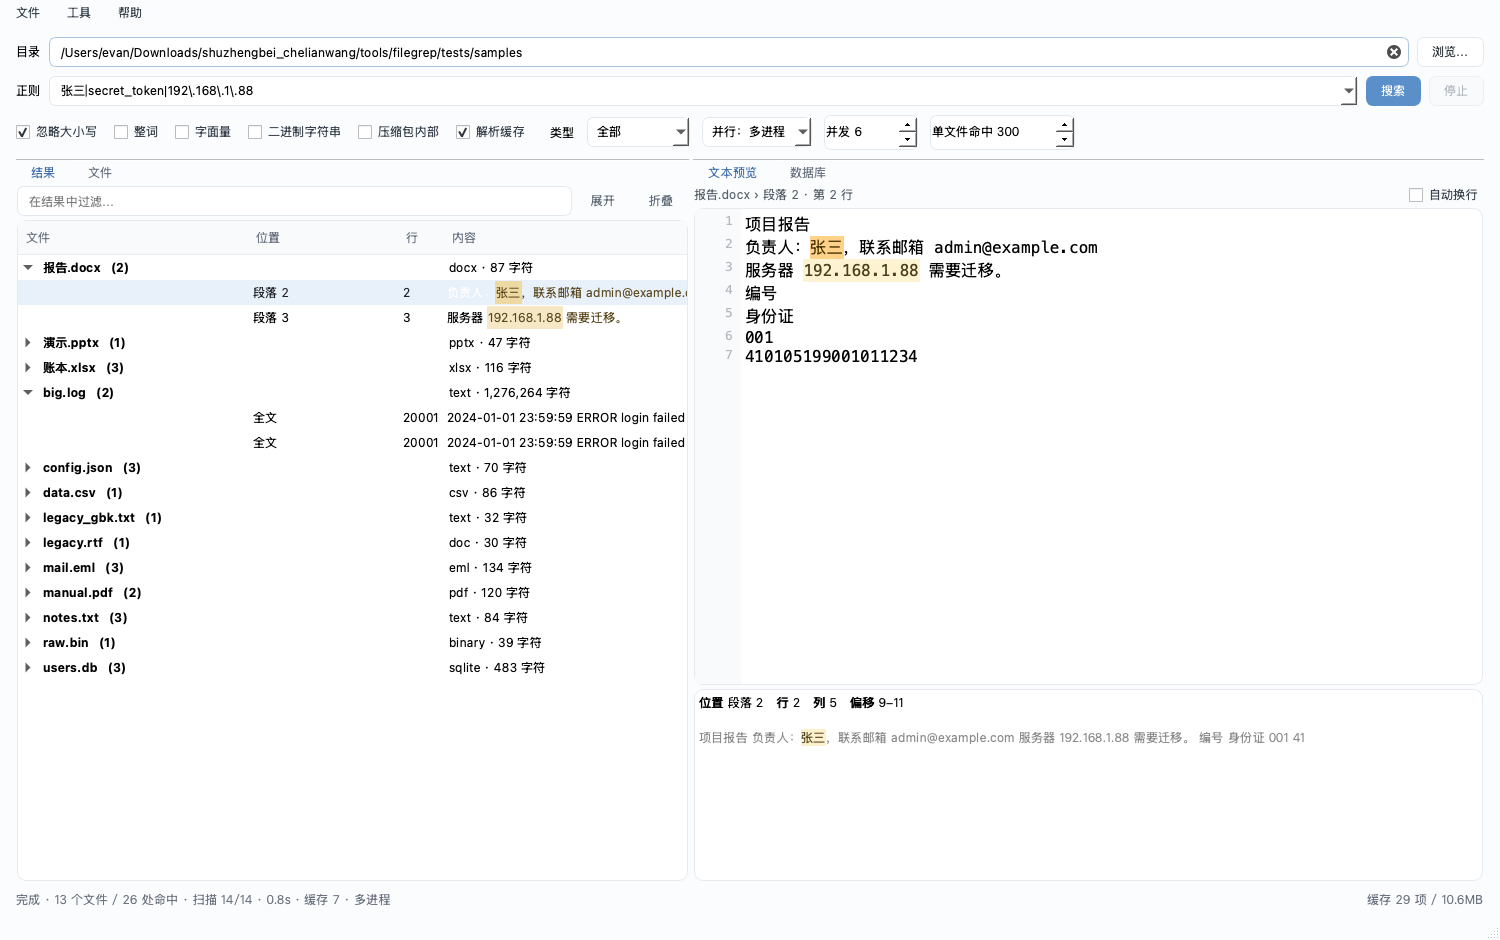
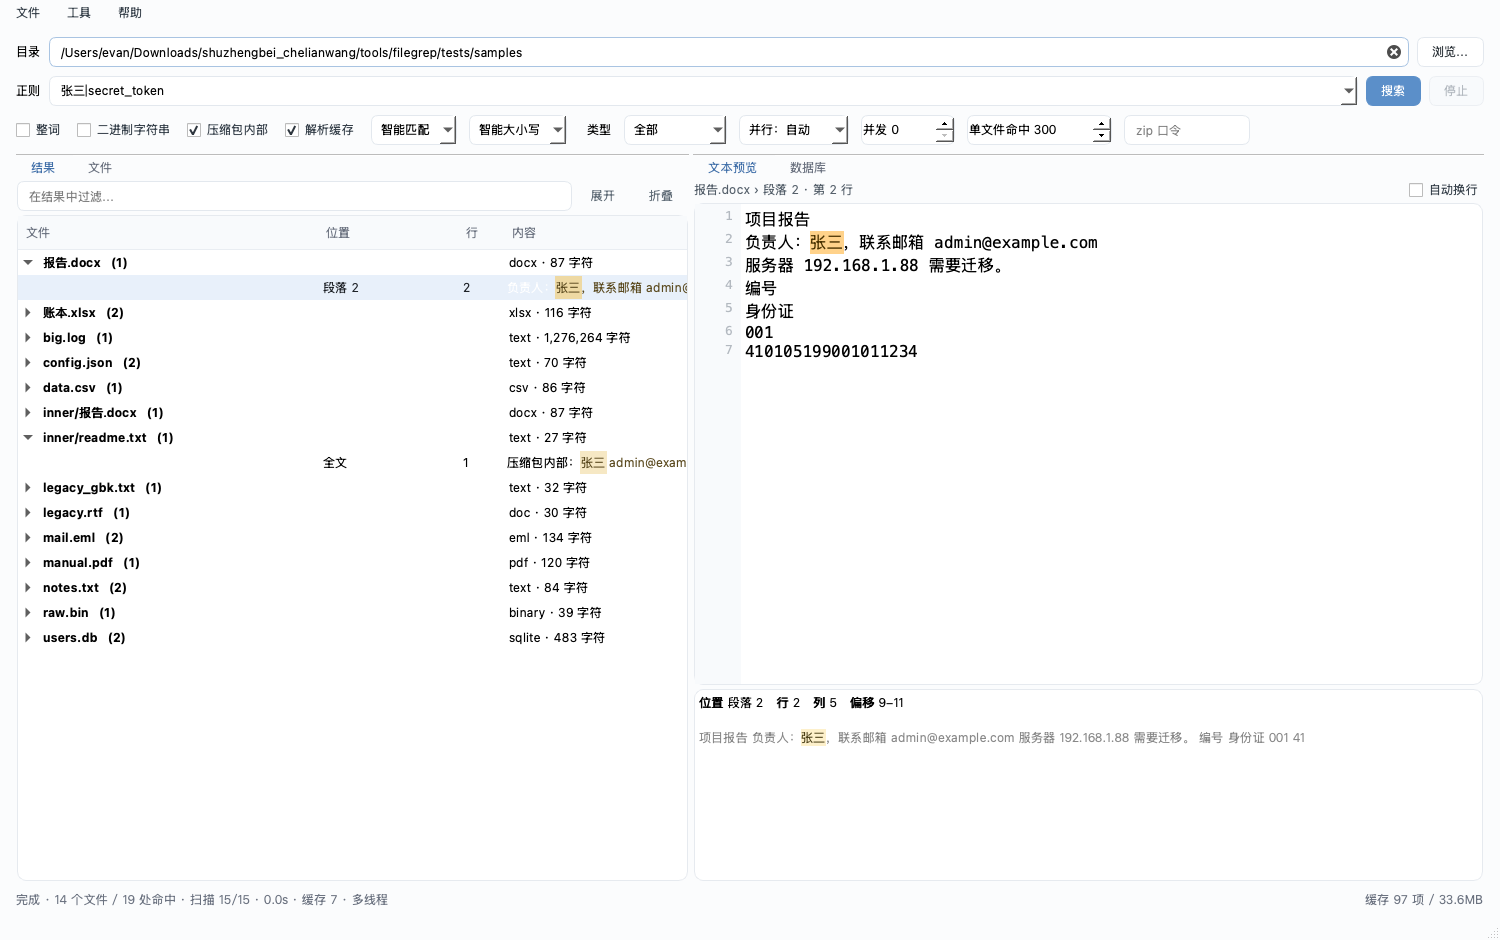
fix(extract): parse archive members and files with unusual extensions
Log bundles often use numeric or missing extensions (logs/aplog.14,
kernel_kmsg.8), which the previous allow-list rejected, so whole logs were
silently skipped.

- replace the member allow-list with a blacklist of media/font/executable/
  archive types; everything else is attempted
- unknown-suffix files get a second chance at text decoding, gated by a
  text-quality score so binary garbage is still rejected

Verified on a real 2x27MB car-log bundle: previously 88 members scanned,
now 208, and a timestamp that only appeared in aplog.14 is found (4 hits).

diff --git a/filegrep/gui_qt.py b/filegrep/gui_qt.py
@@ -41,7 +41,7 @@ from PySide6.QtWidgets import (QAbstractItemView, QApplication, QCheckBox, QComb
                                QTreeWidgetItem, QVBoxLayout, QWidget)
 
 from .engine import (DEFAULT_EXCLUDES, KIND_GROUPS, FileResult, SearchConfig,
-                     SearchEngine, SearchReport, load_document)
+                     SearchEngine, SearchReport, load_document, looks_like_regex)
 from .extract import ExtractContext, supported_suffixes
 
 APP_NAME = "FileGrep"
@@ -974,8 +974,14 @@ class MainWindow(QMainWindow):
         self.case_combo.setToolTip("智能：正则里出现大写字母就区分大小写（推荐）")
         self.cb_word = QCheckBox("整词")
         self.cb_word.setToolTip("只匹配完整单词（给表达式两端加词边界）")
-        self.cb_literal = QCheckBox("字面量")
-        self.cb_literal.setToolTip("把输入当成纯文本查找，特殊符号不再按正则解释")
+        self.match_combo = QComboBox()
+        self.match_combo.addItem("智能匹配", "smart")
+        self.match_combo.addItem("纯文字", "text")
+        self.match_combo.addItem("正则", "regex")
+        self.match_combo.setToolTip(
+            "智能匹配：输入像普通文字就直接找文字，像正则才按正则（推荐）\n"
+            "纯文字：所有符号原样查找\n"
+            "正则：始终按正则表达式")
         self.cb_deep = QCheckBox("二进制字符串")
         self.cb_deep.setToolTip("对无法解析的二进制文件（镜像、未知库）做可打印字符串扫描")
         self.cb_arch = QCheckBox("压缩包内部")
@@ -1009,8 +1015,9 @@ class MainWindow(QMainWindow):
         self.btn_retry_enc.setVisible(False)
         self.btn_retry_enc.setToolTip("用当前口令重新搜索被跳过的加密内容")
         self.btn_retry_enc.clicked.connect(self.start_search)
-        for w in (self.cb_word, self.cb_literal, self.cb_deep, self.cb_arch, self.cb_cache):
+        for w in (self.cb_word, self.cb_deep, self.cb_arch, self.cb_cache):
             row3.addWidget(w)
+        row3.addWidget(self.match_combo)
         row3.addWidget(self.case_combo)
         row3.addSpacing(8)
         row3.addWidget(QLabel("类型"))
@@ -1118,7 +1125,7 @@ class MainWindow(QMainWindow):
         root.addLayout(bottom)
         self.setCentralWidget(central)
 
-        self.cb_literal.toggled.connect(self._on_literal_toggled)
+        self.match_combo.currentIndexChanged.connect(self._on_match_mode_changed)
 
         # 快捷键
         for seq, fn in (
@@ -1189,8 +1196,8 @@ class MainWindow(QMainWindow):
         if self.pattern_combo.count():
             self.pattern_combo.setCurrentIndex(0)
         self.case_combo.setCurrentIndex(max(0, min(s.value("case_mode", 0, type=int), 2)))
+        self.match_combo.setCurrentIndex(max(0, min(s.value("match_mode", 0, type=int), 2)))
         self.cb_word.setChecked(False)
-        self.cb_literal.setChecked(False)
         self.cb_deep.setChecked(False)
         self.cb_arch.setChecked(s.value("archives", True, type=bool))
         self.cb_cache.setChecked(s.value("cache", True, type=bool))
@@ -1210,7 +1217,8 @@ class MainWindow(QMainWindow):
         hist = [self.pattern_combo.itemText(i) for i in range(self.pattern_combo.count())][:30]
         s.setValue("history", hist)
         s.setValue("case_mode", self.case_combo.currentIndex())
-        # 「整词 / 字面量 / 二进制字符串」不持久化：每次启动都从关闭开始
+        s.setValue("match_mode", self.match_combo.currentIndex())
+        # 「整词 / 二进制字符串」不持久化：每次启动都从关闭开始
         s.setValue("archives", self.cb_arch.isChecked())
         s.setValue("cache", self.cb_cache.isChecked())
         s.setValue("type", self.type_combo.currentText())
@@ -1280,7 +1288,7 @@ class MainWindow(QMainWindow):
             ignore_case=self.case_combo.currentData() == "ignore",
             case_mode=self.case_combo.currentData() or "smart",
             whole_word=self.cb_word.isChecked(),
-            literal=self.cb_literal.isChecked(),
+            match_mode=self.match_combo.currentData() or "smart",
             multiline=True, dotall=True,
             whitelist_exts=self._exts(),
             exclude_globs=list(DEFAULT_EXCLUDES),
@@ -1313,14 +1321,13 @@ class MainWindow(QMainWindow):
             self.pattern_combo.setStyleSheet("border:1px solid #d93025;")
             self._flash(f"正则无效：{e}")
             return
-        if cfg.literal and re.search(r"\(\?|\[|\{", cfg.pattern):
+        if cfg.match_mode == "text" and looks_like_regex(cfg.pattern):
             self.pattern_combo.setStyleSheet("border:1px solid #d9a03a;")
             self.statusBar().showMessage(
-                "提醒：「字面量」已勾选，表达式里的 (?<! [ ] 会按普通字符处理，多半搜不到。"
-                "请取消勾选「字面量」后再搜。", 15000)
-            self._flash("请先取消勾选「字面量」")
-            return
-        self.pattern_combo.setStyleSheet("")
+                "当前是「纯文字」模式：输入里的 (? [ { 会按原样查找。"
+                "若想用正则，请把匹配方式切成「智能匹配」或「正则」。", 15000)
+        else:
+            self.pattern_combo.setStyleSheet("")
         self.zip_pwd_edit.setStyleSheet("")
         self._cfg_last = cfg
         self._remember_pattern(cfg.pattern)
@@ -1463,26 +1470,27 @@ class MainWindow(QMainWindow):
                 self.tree.setCurrentItem(top.child(0))
                 self.show_hit(top.child(0).data(0, Qt.ItemDataRole.UserRole + 1))
 
-    def _on_literal_toggled(self, on: bool) -> None:
-        if on:
-            self.pattern_combo.setStyleSheet("border:1px solid #d9a03a;")
+    def _on_match_mode_changed(self, _idx: int = 0) -> None:
+        mode = self.match_combo.currentData()
+        self.pattern_combo.setStyleSheet("")
+        if mode == "text":
             self.pattern_combo.lineEdit().setPlaceholderText(
-                "字面量模式：按普通文本匹配，正则符号（(?<! [ ] { } | \\）不生效")
-            self.statusBar().showMessage(
-                "已开启「字面量」：表达式会被当作普通文本。要按正则搜索请取消勾选。", 10000)
-        else:
-            self.pattern_combo.setStyleSheet("")
+                "纯文字匹配：特殊符号（(?<! [ ] { } | \\）按原样查找")
+        elif mode == "regex":
             self.pattern_combo.lineEdit().setPlaceholderText(
                 r"正则表达式，例如  张三|138\d{8}    或    (?i)password\s*=")
+        else:
+            self.pattern_combo.lineEdit().setPlaceholderText(
+                "直接输入要查找的文字，也可以写正则——会自动判断")
 
     def reset_options(self) -> None:
         """一键把容易误触的开关恢复到默认。"""
         self.cb_word.setChecked(False)
-        self.cb_literal.setChecked(False)
         self.cb_deep.setChecked(False)
         self.cb_arch.setChecked(True)
         self.cb_cache.setChecked(True)
         self.case_combo.setCurrentIndex(0)
+        self.match_combo.setCurrentIndex(0)
         self.type_combo.setCurrentIndex(0)
         self.backend_combo.setCurrentIndex(0)
         self.workers_spin.setValue(0)

diff --git a/filegrep/engine.py b/filegrep/engine.py
@@ -62,6 +62,25 @@ KIND_GROUPS: Dict[str, Tuple[str, ...]] = {
 }
 
 
+_REGEX_SIGNALS = re.compile(
+    r"\\[dDwWsSbBAZzG0-9.]"      # \d \w \. 等转义
+    r"|\(\?"                     # (?: (?= (?<!
+    r"|\[[^\]]*\]"              # [abc]
+    r"|\{\d+(?:,\d*)?\}"       # {8} {1,3}
+    r"|\.\*|\.\+|\.\?"       # .* .+ .?
+    r"|^\^"                       # 开头 ^
+    r"|(?<!\\)\$"               # 结尾 $
+    r"|(?<!\\)\|"               # a|b
+)
+
+
+def looks_like_regex(pattern: str) -> bool:
+    """粗略判断输入是否包含正则语法；没有就当普通文字处理。"""
+    if not pattern:
+        return False
+    return bool(_REGEX_SIGNALS.search(pattern))
+
+
 def pattern_has_upper(pat: str) -> bool:
     """pattern 里是否出现字面大写字母（跳过 \\A 这类转义）。"""
     i = 0
@@ -86,7 +105,8 @@ class SearchConfig:
     whole_word: bool = False
     dotall: bool = True
     multiline: bool = True
-    literal: bool = False
+    literal: bool = False             # 兼容旧字段；match_mode 优先
+    match_mode: str = "smart"         # smart | text | regex
     whitelist_exts: Optional[Sequence[str]] = None
     exclude_globs: List[str] = field(default_factory=lambda: list(DEFAULT_EXCLUDES))
     include_hidden: bool = True
@@ -126,9 +146,18 @@ class SearchConfig:
             flags |= re.DOTALL
         return flags
 
+    def is_literal(self) -> bool:
+        """本次是否按纯文字匹配。"""
+        mode = self.match_mode or ("text" if self.literal else "regex")
+        if mode == "text":
+            return True
+        if mode == "regex":
+            return self.literal          # 显式字面量优先
+        return not looks_like_regex(self.pattern)
+
     def pattern_source(self) -> str:
         pat = self.pattern
-        if self.literal:
+        if self.is_literal():
             pat = re.escape(pat)
         if self.whole_word:
             pat = rf"(?<![0-9A-Za-z_])(?:{pat})(?![0-9A-Za-z_])"
@@ -170,15 +199,28 @@ ZIP_LIKE = {".zip"}
 MAX_ZIP_MEMBERS = 5000
 
 
+# 明确不含可读文本的成员类型；其它一律尝试解析（日志常见 aplog.01 / .1 这类后缀）
+SKIP_MEMBER_SUFFIXES = {
+    # 图片
+    ".png", ".jpg", ".jpeg", ".gif", ".bmp", ".webp", ".ico", ".tif", ".tiff", ".heic",
+    # 音视频
+    ".mp3", ".mp4", ".avi", ".mkv", ".mov", ".wav", ".flac", ".ogg", ".webm", ".m4a", ".aac",
+    # 字体
+    ".ttf", ".otf", ".woff", ".woff2", ".eot",
+    # 压缩包 / 可执行 / 字节码
+    ".zip", ".7z", ".rar", ".gz", ".bz2", ".xz", ".tar", ".jar", ".apk", ".ipa",
+    ".whl", ".egg", ".vsix", ".xpi", ".so", ".dylib", ".dll", ".exe", ".class",
+    ".dex", ".o", ".a", ".obj", ".lib", ".pyc",
+    # 证书 / 密钥容器
+    ".keystore", ".jks", ".p12", ".pfx", ".der",
+}
+
+
 def _member_worth_parsing(name: str) -> bool:
-    """压缩包成员是否值得解析：无扩展名（如 aplog）、或已知文本/文档类型。"""
+    """压缩包成员是否值得解析：只跳过明确不可读的类型。"""
     base = name.rsplit("/", 1)[-1]
     suffix = os.path.splitext(base)[1].lower()
-    if not suffix:
-        return True
-    if suffix in ex._REGISTRY:
-        return True
-    return False
+    return suffix not in SKIP_MEMBER_SUFFIXES
 
 
 def _expand_zip(path: str, rel: str, st, cfg: SearchConfig) -> List[Tuple[str, str, int, int, Optional[str]]]:

diff --git a/filegrep/extract.py b/filegrep/extract.py
@@ -1195,7 +1195,7 @@ def extract_zip(src: Source, ctx: ExtractContext) -> Document:
             sub_src = Source(f"{src.name}::{member}", data=b"")
             # 只对可解析类型递归，其余跳过（避免无谓内存开销）
             sub_suffix = os.path.splitext(member)[1].lower()
-            if sub_suffix not in _REGISTRY or info.file_size > 64 * 1024 * 1024:
+            if sub_suffix in _SKIP_MEMBER_SUFFIXES or info.file_size > 64 * 1024 * 1024:
                 continue
             try:
                 data = zf.read(info)
@@ -1218,6 +1218,17 @@ def extract_zip(src: Source, ctx: ExtractContext) -> Document:
 # ---------------------------------------------------------------------------
 # 原始字符串扫描（任意二进制：E01/镜像/未知库/损坏文件）
 # ---------------------------------------------------------------------------
+
+# 与 engine.SKIP_MEMBER_SUFFIXES 保持一致（此模块不反向依赖 engine）
+_SKIP_MEMBER_SUFFIXES = {
+    ".png", ".jpg", ".jpeg", ".gif", ".bmp", ".webp", ".ico", ".tif", ".tiff", ".heic",
+    ".mp3", ".mp4", ".avi", ".mkv", ".mov", ".wav", ".flac", ".ogg", ".webm", ".m4a", ".aac",
+    ".ttf", ".otf", ".woff", ".woff2", ".eot",
+    ".zip", ".7z", ".rar", ".gz", ".bz2", ".xz", ".tar", ".jar", ".apk", ".ipa",
+    ".whl", ".egg", ".vsix", ".xpi", ".so", ".dylib", ".dll", ".exe", ".class",
+    ".dex", ".o", ".a", ".obj", ".lib", ".pyc",
+    ".keystore", ".jks", ".p12", ".pfx", ".der",
+}
 
 _ASCII_RE = re.compile(rb"[\x20-\x7e\t]{4,}")
 _UTF16_RE = re.compile(r"(?:[\x20-\x7e\u00a0-\uffff]\x00){4,}")
@@ -1363,6 +1374,16 @@ def extract_source(src: Source, ctx: Optional[ExtractContext] = None) -> Documen
     except Exception as e:  # noqa: BLE001 - 批量扫描保底
         err = f"{type(e).__name__}: {e}"
 
+    if (doc is None and fn is not None and fn is not extract_text
+            and src.suffix not in _REGISTRY and src.size <= 64 * 1024 * 1024):
+        # 未知后缀：即使 sniff 没判定为文本，也试一次解码，用文本质量分过滤乱码
+        try:
+            cand = extract_text(src, ctx)
+            if cand.text.strip() and _text_score(cand.text[:8000]) > 0.62:
+                doc = cand
+                err = None
+        except Exception:
+            pass
     if doc is None and _FALLBACK_CONVERTER is not None and src.size <= 32 * 1024 * 1024:
         # 兜底零：markitdown 万能格式转换（覆盖 WPS/旧版 Office/图片元数据等）
         try:

diff --git a/filegrep/cli.py b/filegrep/cli.py
@@ -33,7 +33,10 @@ def build_parser() -> argparse.ArgumentParser:
                    choices=["smart", "ignore", "sensitive"],
                    help="大小写模式（默认 smart：含大写字母就区分）")
     p.add_argument("-w", "--word", action="store_true", help="整词匹配")
-    p.add_argument("-F", "--literal", action="store_true", help="按字面量匹配（不当正则）")
+    p.add_argument("-F", "--literal", action="store_true", help="等同 --mode text")
+    p.add_argument("--mode", dest="match_mode", default="smart",
+                   choices=["smart", "text", "regex"],
+                   help="匹配方式：smart=像正则才当正则（默认），text=纯文字，regex=始终正则")
     p.add_argument("--no-multiline", dest="multiline", action="store_false", default=True,
                    help="^ $ 不按行匹配")
     p.add_argument("--no-dotall", dest="dotall", action="store_false", default=True,
@@ -119,6 +122,7 @@ def main(argv: Optional[List[str]] = None) -> int:
         ignore_case=args.ignore_case,
         whole_word=args.word,
         literal=args.literal,
+        match_mode=("text" if args.literal else args.match_mode),
         multiline=args.multiline,
         dotall=args.dotall,
         whitelist_exts=exts,

diff --git a/README.md b/README.md
@@ -113,7 +113,9 @@ logs/aplog · 第 9742 行             ← 压缩包成员
 单独定位，并独立参与多进程并行——不会把几百 MB 日志拼成一个巨型字符串，也不会
 因为一个坏成员中断整包。
 
-* 没有扩展名的成员（如车机日志 `logs/aplog`、`aplog.01`）同样会被解析
+* 成员采用**黑名单**策略：除图片/音视频/字体/可执行/压缩包外一律尝试解析，
+  所以 `logs/aplog`、`aplog.01`、`aplog.14`、`kernel_kmsg.8` 这类没有常规扩展名的日志也能搜到
+* 未知扩展名的普通文件同样会尝试解码，并用文本质量分过滤掉乱码二进制
 * 加密成员会被**跳过并计数**，状态栏显示「N 个加密已跳过」，同时出现「重搜加密项」按钮
 * 在顶部「zip 口令」里填入密码（多个用逗号分隔）后回车，即可把加密内容也纳入结果
 * 口令只用于本次进程，不写入任何配置
